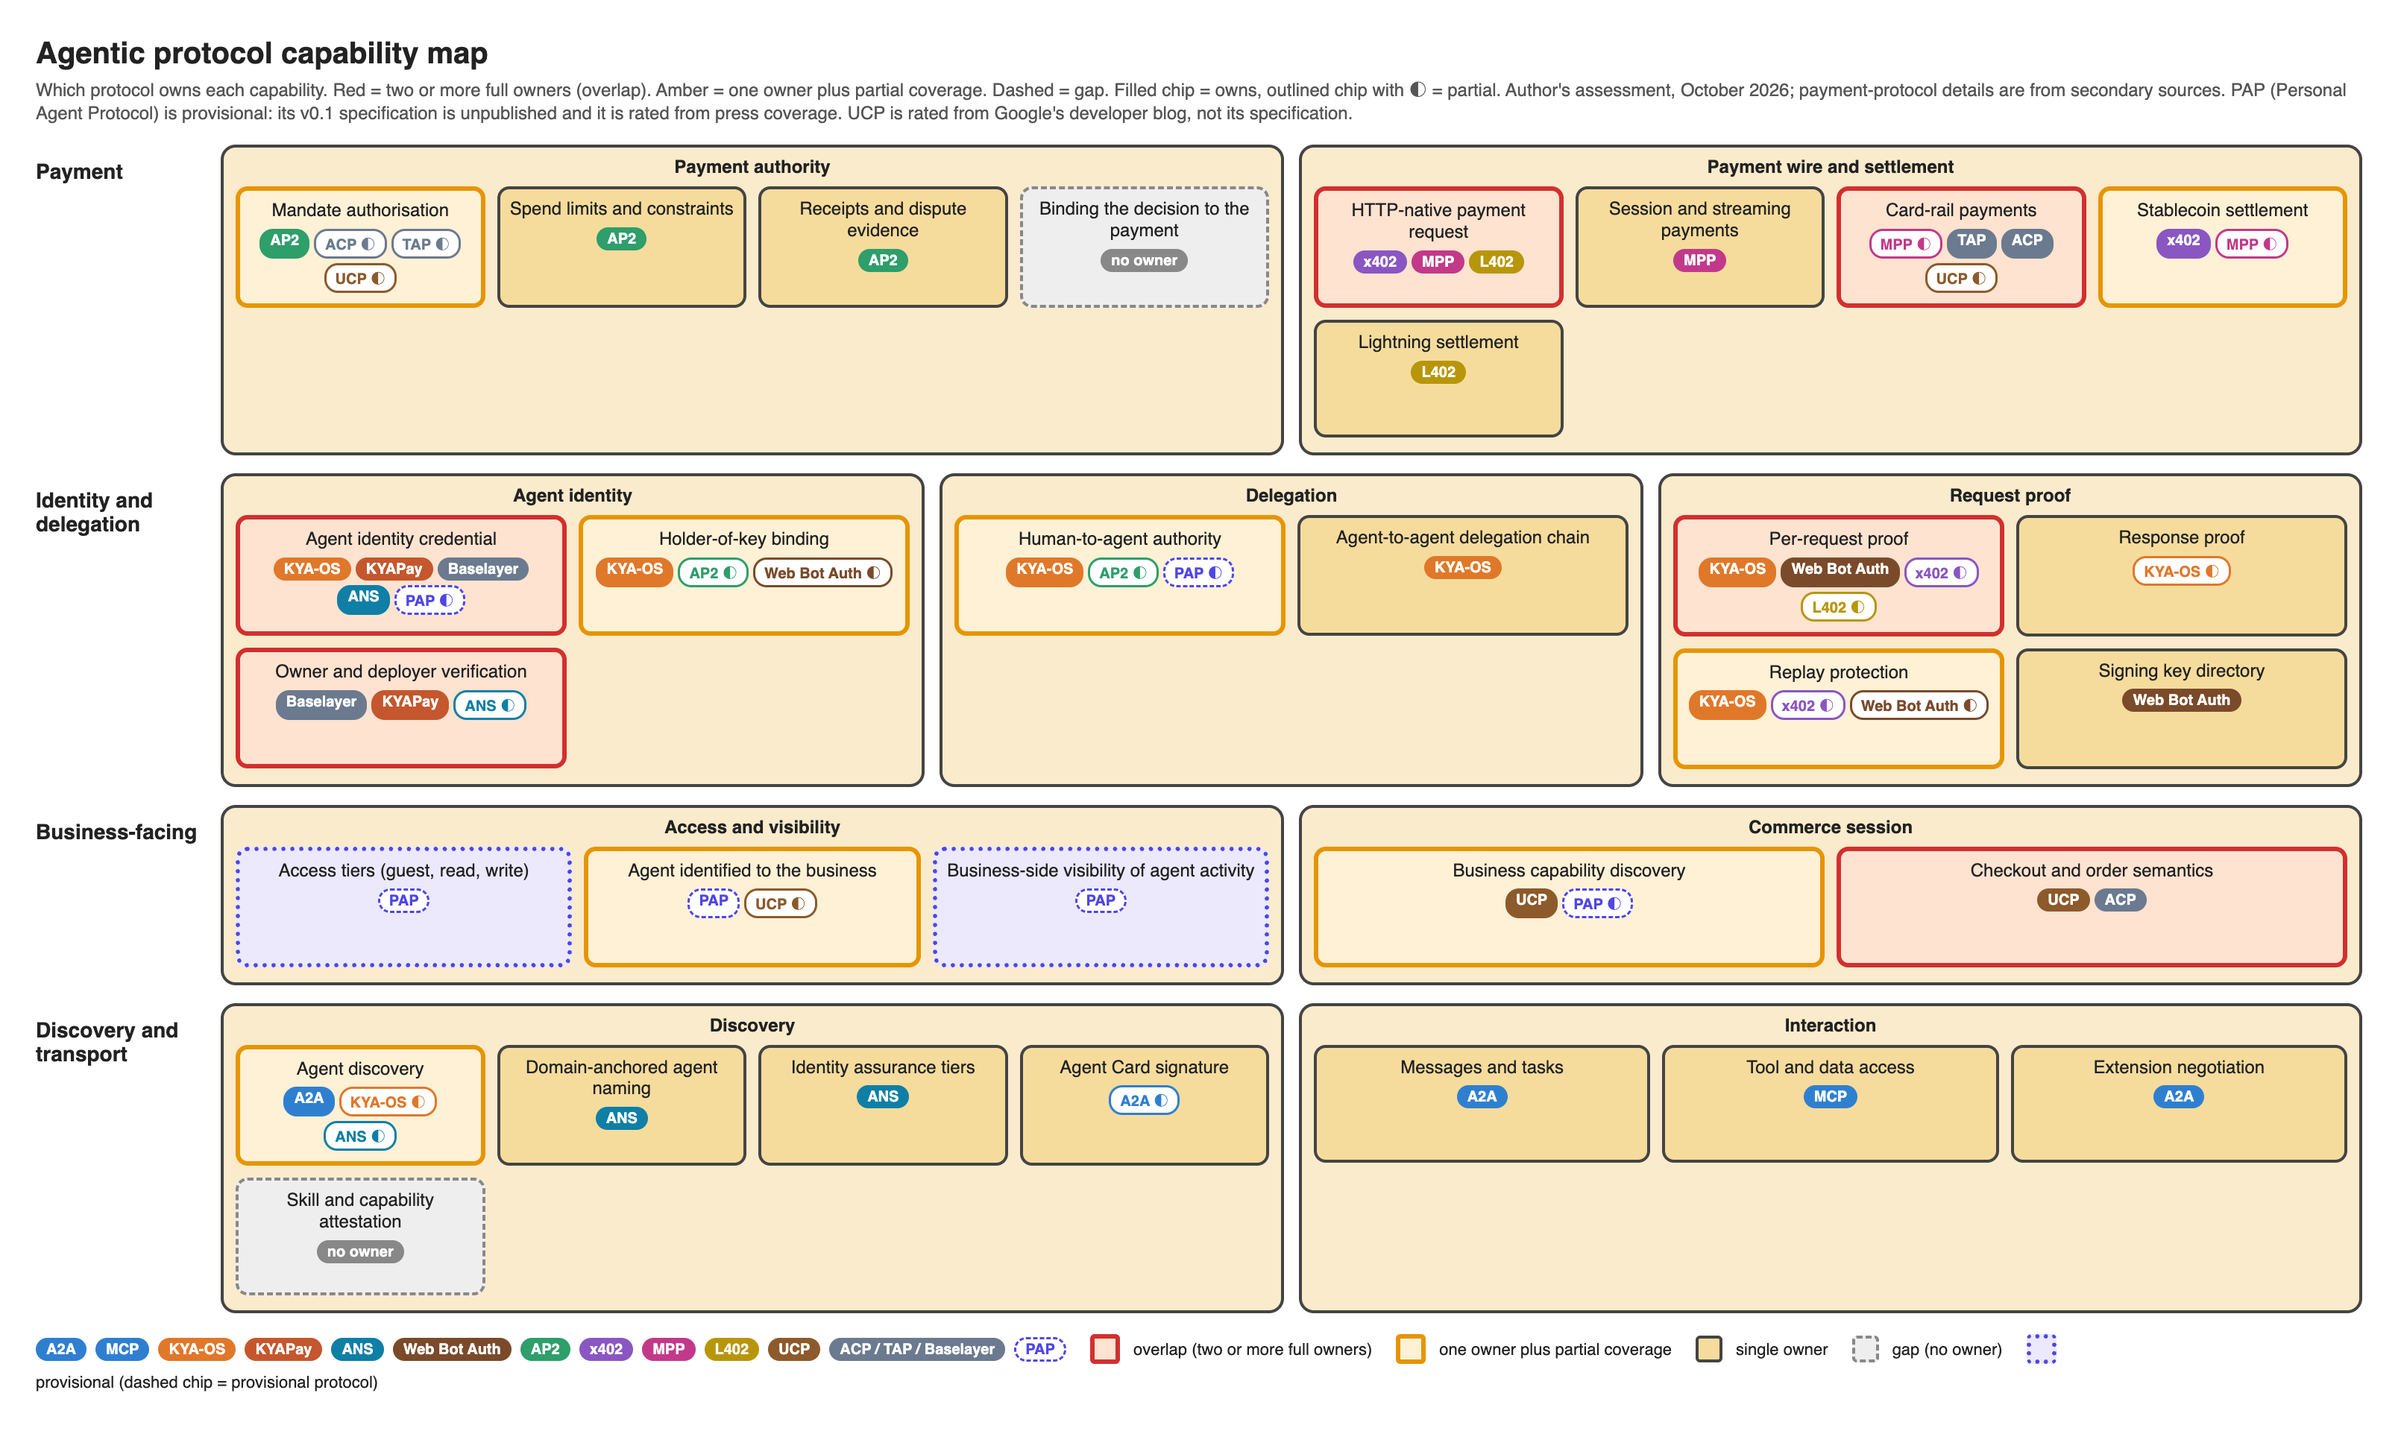
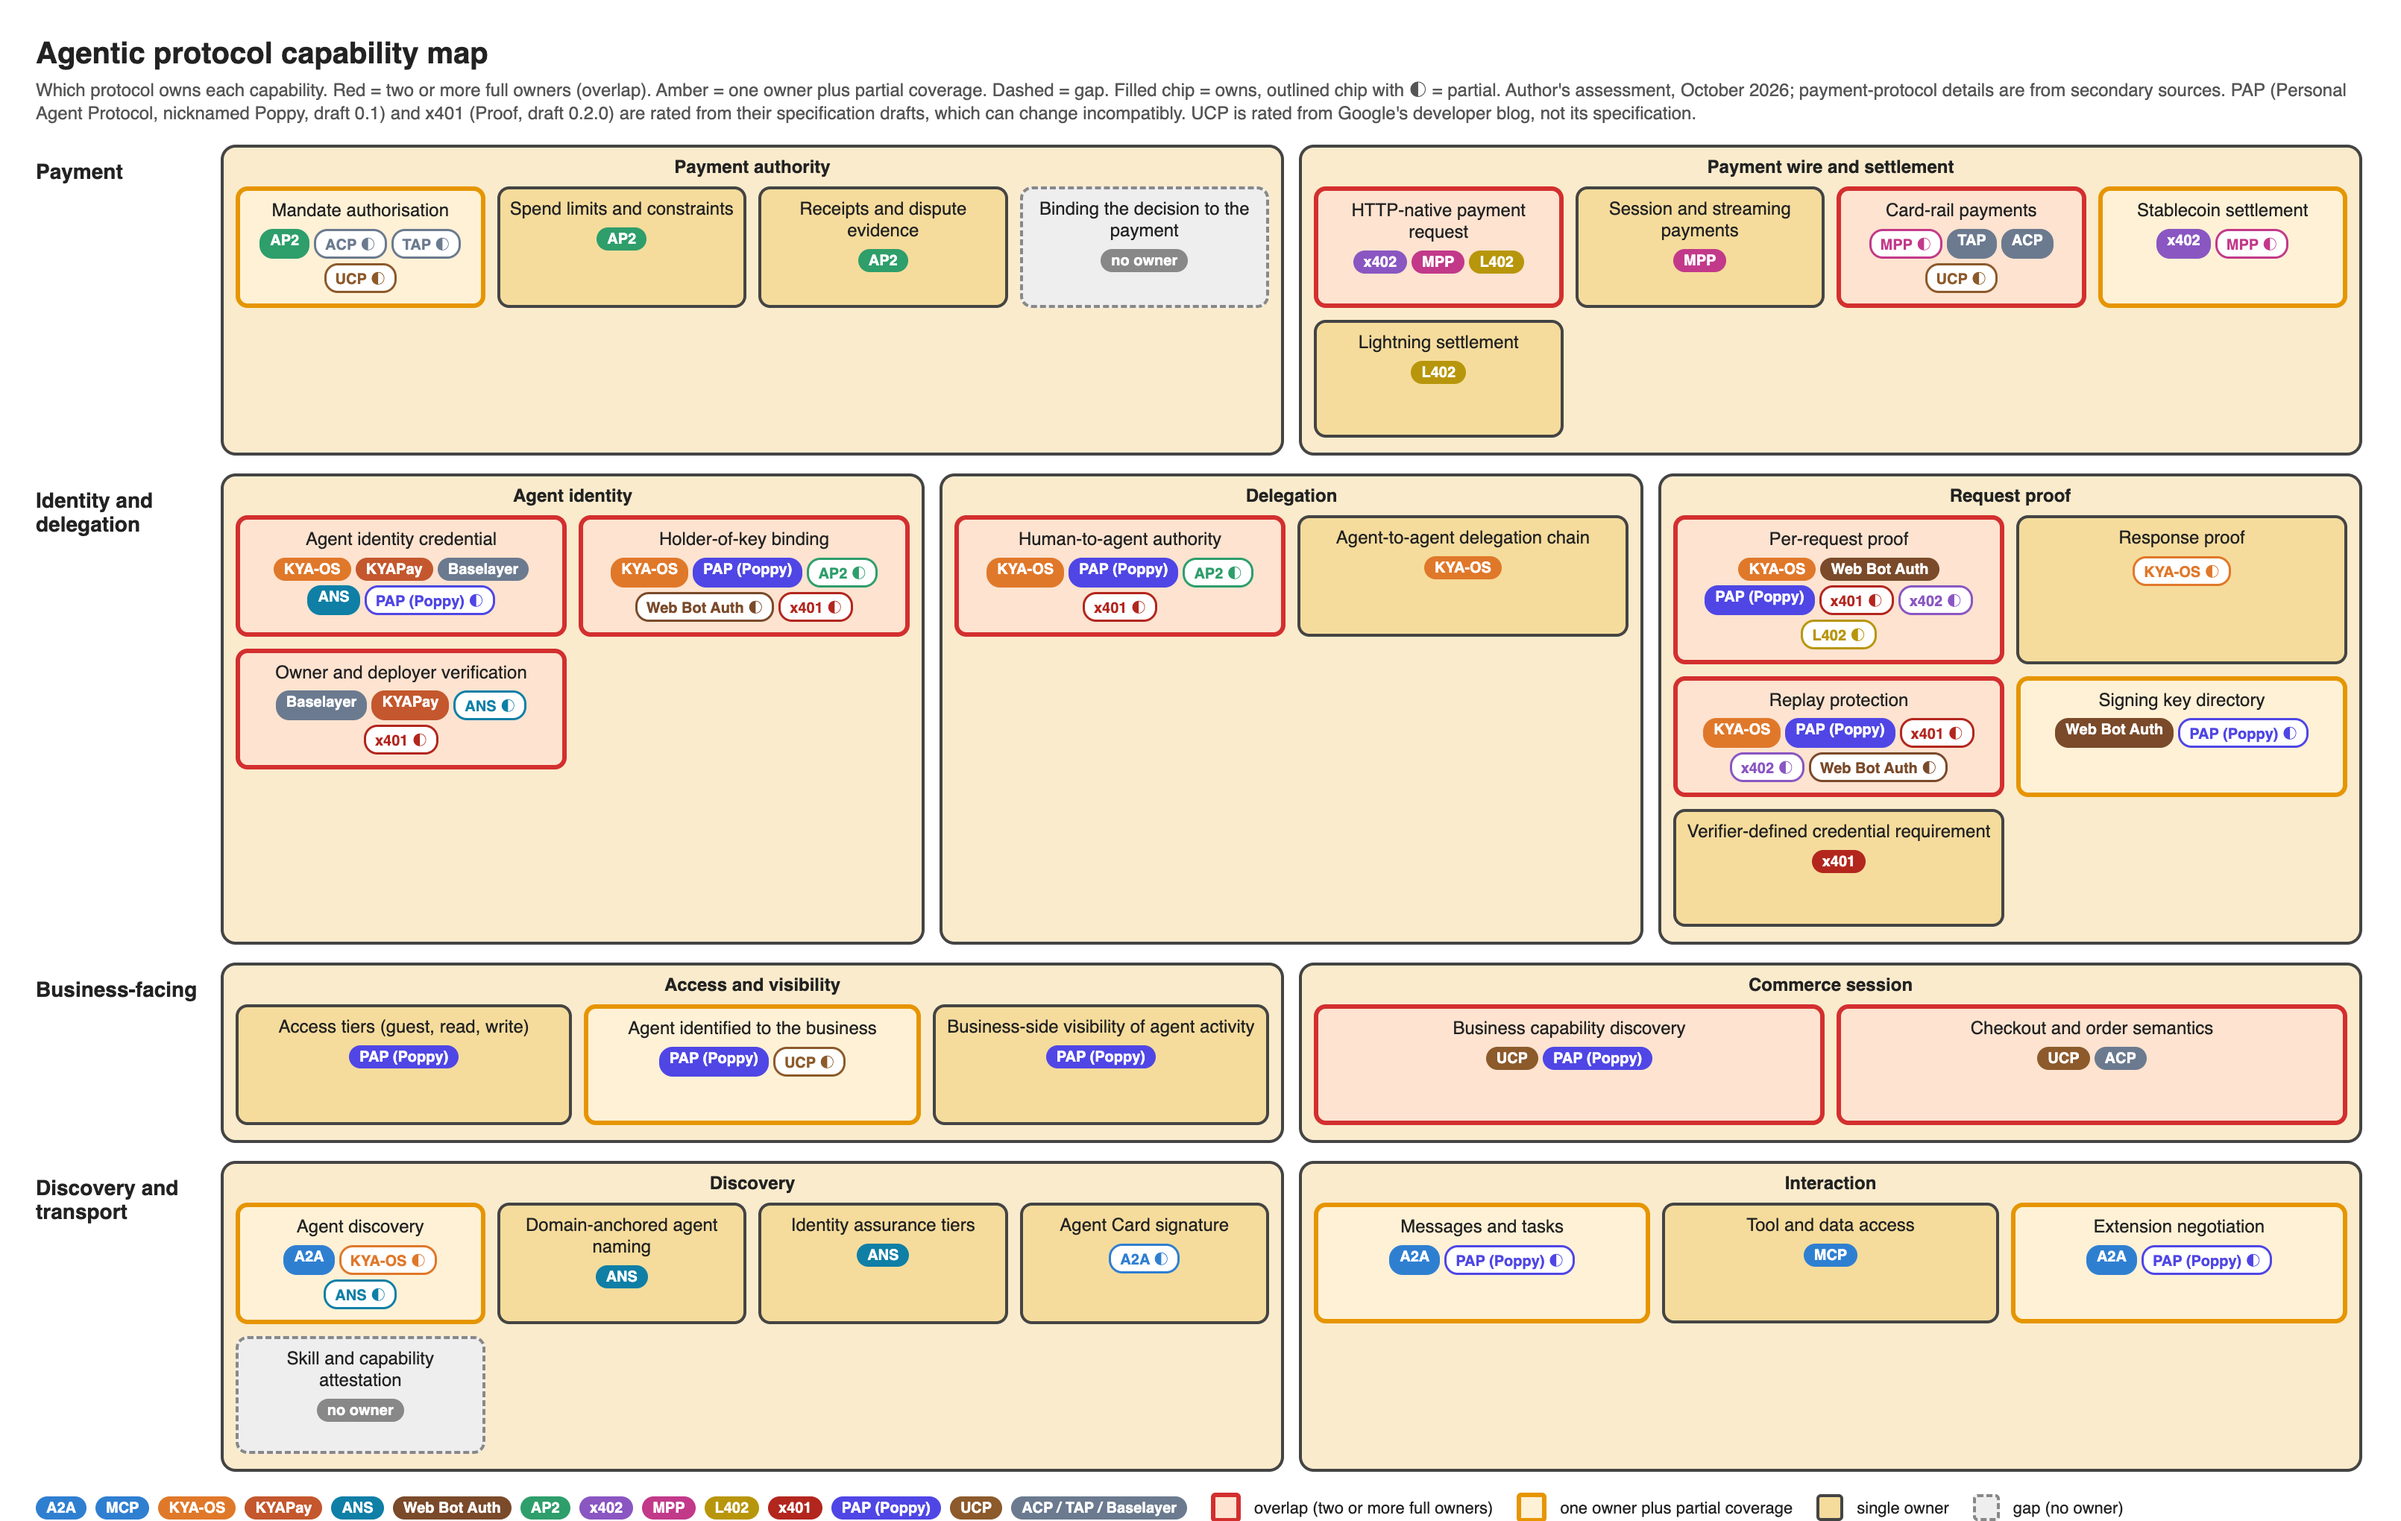
docs: add x401, rate PAP from its specification and regenerate the map
PAP (Poppy) draft 0.1 and x401 draft 0.2.0 are rated from their
specification text, so PAP is no longer provisional. Adds the
verifier-defined credential requirement capability and re-renders both
images (38 capabilities).

diff --git a/docs/research/tools/capability-map/generate.py b/docs/research/tools/capability-map/generate.py
@@ -24,11 +24,13 @@ import html
 # protocol -> colour
 COL={'A2A':'#2f7fd1','KYA-OS':'#e0782a','AP2':'#2e9e6b','x402':'#8a56c2','MPP':'#c2398a','L402':'#b8960b','cheqd':'#1b8a8a',
      'ACP':'#6b7a8f','TAP':'#6b7a8f','KYAPay':'#c4572d','Baselayer':'#6b7a8f','MCP':'#2f7fd1',
-     'UCP':'#8c5a2b','PAP':'#4f46e5','ANS':'#0f7fa6','WebBotAuth':'#7a4a2a'}
-LABEL={'WebBotAuth':'Web Bot Auth'}
-# Protocols whose ratings are provisional (specification unpublished or rated from secondary sources).
+     'UCP':'#8c5a2b','PAP':'#4f46e5','ANS':'#0f7fa6','WebBotAuth':'#7a4a2a','x401':'#b3261e'}
+LABEL={'WebBotAuth':'Web Bot Auth','PAP':'PAP (Poppy)'}
+# Protocols whose ratings are provisional (rated from announcements, not the specification text).
+# None at present. PAP (Poppy) is rated from draft 0.1 (docs/spec, 15 Oct 2026); x401 from draft 0.2.0
+# (github.com/proof/x401, key sections read). Both are drafts and can change incompatibly.
 # Their chips render dashed, and a box owned only by provisional protocols gets a dotted border.
-PROVISIONAL={'PAP'}
+PROVISIONAL=set()
 # (name, [(proto, level)], note)  level: F full, P partial
 def cap(name, owners, gap=False): return dict(name=name, owners=owners, gap=gap)
 ROWS=[
@@ -48,16 +50,17 @@ ROWS=[
  ("Identity and delegation", [
    ("Agent identity", [
      cap("Agent identity credential",[('KYA-OS','F'),('KYAPay','F'),('Baselayer','F'),('ANS','F'),('PAP','P')]),
-     cap("Holder-of-key binding",[('KYA-OS','F'),('AP2','P'),('WebBotAuth','P')]),
-     cap("Owner and deployer verification",[('Baselayer','F'),('KYAPay','F'),('ANS','P')])]),
+     cap("Holder-of-key binding",[('KYA-OS','F'),('PAP','F'),('AP2','P'),('WebBotAuth','P'),('x401','P')]),
+     cap("Owner and deployer verification",[('Baselayer','F'),('KYAPay','F'),('ANS','P'),('x401','P')])]),
    ("Delegation", [
-     cap("Human-to-agent authority",[('KYA-OS','F'),('AP2','P'),('PAP','P')]),
+     cap("Human-to-agent authority",[('KYA-OS','F'),('PAP','F'),('AP2','P'),('x401','P')]),
      cap("Agent-to-agent delegation chain",[('KYA-OS','F')])]),
    ("Request proof", [
-     cap("Per-request proof",[('KYA-OS','F'),('WebBotAuth','F'),('x402','P'),('L402','P')]),
+     cap("Per-request proof",[('KYA-OS','F'),('WebBotAuth','F'),('PAP','F'),('x401','P'),('x402','P'),('L402','P')]),
      cap("Response proof",[('KYA-OS','P')]),
-     cap("Replay protection",[('KYA-OS','F'),('x402','P'),('WebBotAuth','P')]),
-     cap("Signing key directory",[('WebBotAuth','F')])]),
+     cap("Replay protection",[('KYA-OS','F'),('PAP','F'),('x401','P'),('x402','P'),('WebBotAuth','P')]),
+     cap("Signing key directory",[('WebBotAuth','F'),('PAP','P')]),
+     cap("Verifier-defined credential requirement",[('x401','F')])]),
  ]),
  ("Business-facing", [
    ("Access and visibility", [
@@ -65,7 +68,7 @@ ROWS=[
      cap("Agent identified to the business",[('PAP','F'),('UCP','P')]),
      cap("Business-side visibility of agent activity",[('PAP','F')])]),
    ("Commerce session", [
-     cap("Business capability discovery",[('UCP','F'),('PAP','P')]),
+     cap("Business capability discovery",[('UCP','F'),('PAP','F')]),
      cap("Checkout and order semantics",[('UCP','F'),('ACP','F')])]),
  ]),
  ("Discovery and transport", [
@@ -76,9 +79,9 @@ ROWS=[
      cap("Agent Card signature",[('A2A','P')]),
      cap("Skill and capability attestation",[],True)]),
    ("Interaction", [
-     cap("Messages and tasks",[('A2A','F')]),
+     cap("Messages and tasks",[('A2A','F'),('PAP','P')]),
      cap("Tool and data access",[('MCP','F')]),
-     cap("Extension negotiation",[('A2A','F')])]),
+     cap("Extension negotiation",[('A2A','F'),('PAP','P')])]),
  ]),
  ("Trust anchor", [
    ("Resolution and linkage", [
@@ -86,7 +89,7 @@ ROWS=[
      cap("Reciprocal did:web and did:cheqd linkage",[('cheqd','F')]),
      cap("Versioned policy artefacts",[('cheqd','F')])]),
    ("Status", [
-     cap("Credential status and revocation",[('cheqd','F'),('KYA-OS','P'),('ANS','P')]),
+     cap("Credential status and revocation",[('cheqd','F'),('KYA-OS','P'),('ANS','P'),('PAP','P'),('x401','P')]),
      cap("Trust registry standing",[('cheqd','F')]),
      cap("Append-only transparency log",[('ANS','F')])]),
  ]),
@@ -136,7 +139,8 @@ rows=''
 for rname, groups in ROWS:
     g=''.join(f'<div class="grp"><div class="gt">{html.escape(gn)}</div><div class="caps">{"".join(box(c) for c in cs)}</div></div>' for gn,cs in groups)
     rows+=f'<div class="row"><div class="rl">{html.escape(rname)}</div><div class="groups">{g}</div></div>'
-legend=''.join(f'<span class="chip" style="--c:{COL[p]}">{LABEL.get(p,p)}</span>' for p in ['A2A','MCP','KYA-OS','KYAPay','ANS','WebBotAuth','AP2','x402','MPP','L402','UCP','cheqd'] if p in COL)+'<span class="chip" style="--c:#6b7a8f">ACP / TAP / Baselayer</span>'+'<span class="chip prov" style="--c:#4f46e5">PAP</span>'
+legend=''.join(f'<span class="chip" style="--c:{COL[p]}">{LABEL.get(p,p)}</span>' for p in ['A2A','MCP','KYA-OS','KYAPay','ANS','WebBotAuth','AP2','x402','MPP','L402','x401','PAP','UCP','cheqd'] if p in COL)+'<span class="chip" style="--c:#6b7a8f">ACP / TAP / Baselayer</span>'+''
+PROV_KEY='<span class="k" style="background:#ebe9fb;border:3px dotted #4f46e5"></span>provisional (dashed chip = provisional protocol)' if PROVISIONAL else ''
 page=f'''<!doctype html><meta charset=utf-8><style>
 body{{margin:0;padding:24px;background:#fff;font-family:Helvetica,Arial,'DejaVu Sans',sans-serif;color:#222;width:1560px}}
 h1{{font-size:20px;margin:0 0 4px}} .sub{{font-size:12px;color:#555;margin-bottom:14px}}
@@ -162,14 +166,14 @@ h1{{font-size:20px;margin:0 0 4px}} .sub{{font-size:12px;color:#555;margin-botto
 .k{{display:inline-block;width:14px;height:14px;border-radius:3px;margin:0 3px 0 10px;vertical-align:middle}}
 </style>
 <h1>{html.escape(TITLE)}</h1>
-<div class="sub">Which protocol owns each capability. Red = two or more full owners (overlap). Amber = one owner plus partial coverage. Dashed = gap. Filled chip = owns, outlined chip with <span class=h>◐</span> = partial. Author's assessment, October 2026; payment-protocol details are from secondary sources. PAP (Personal Agent Protocol) is provisional: its v0.1 specification is unpublished and it is rated from press coverage. UCP is rated from Google's developer blog, not its specification.</div>
+<div class="sub">Which protocol owns each capability. Red = two or more full owners (overlap). Amber = one owner plus partial coverage. Dashed = gap. Filled chip = owns, outlined chip with <span class=h>◐</span> = partial. Author's assessment, October 2026; payment-protocol details are from secondary sources. PAP (Personal Agent Protocol, nicknamed Poppy, draft 0.1) and x401 (Proof, draft 0.2.0) are rated from their specification drafts, which can change incompatibly. UCP is rated from Google's developer blog, not its specification.</div>
 {rows}
 <div class="leg">{legend}
 <span class="k" style="background:#fde3d0;border:3px solid #d32f2f"></span>overlap (two or more full owners)
 <span class="k" style="background:#fff1d6;border:3px solid #e69500"></span>one owner plus partial coverage
 <span class="k" style="background:#f5dc9c;border:2px solid #444"></span>single owner
 <span class="k" style="background:#eee;border:2px dashed #888"></span>gap (no owner)
-<span class="k" style="background:#ebe9fb;border:3px dotted #4f46e5"></span>provisional (dashed chip = provisional protocol)</div>'''
+{PROV_KEY}</div>'''
 out=sys.argv[1] if len(sys.argv)>1 else 'capability-map.html'
 open(out,'w').write(page)
 print({k:len(v) for k,v in stats.items()})

diff --git a/docs/research/tools/capability-map/README.md b/docs/research/tools/capability-map/README.md
@@ -15,6 +15,10 @@ The same data produces two versions:
 
 `--no-cheqd` removes the cheqd chips, drops the capabilities only cheqd covered, and omits the Trust anchor row. `--without PROTOCOL` and `--skip-row ROW` do the same for other protocols and rows.
 
+## Protocols and traction
+
+[`PROTOCOLS.md`](./PROTOCOLS.md) lists every protocol on the map with its steward, documentation, adoption signals and GitHub and package metrics. [`traction/`](./traction/) holds the data and scripts behind its charts: `python3 traction/fetch.py` refreshes `data.json` (needs `gh`), and `python3 traction/render.py` redraws the SVGs.
+
 ## Run
 
 ```bash
@@ -30,15 +34,15 @@ Any headless Chromium works. For example, with Chrome on macOS:
 
 ```bash
 "/Applications/Google Chrome.app/Contents/MacOS/Google Chrome" --headless \
-  --hide-scrollbars --force-device-scale-factor=2 --window-size=1610,1090 \
+  --hide-scrollbars --force-device-scale-factor=2 --window-size=1610,1170 \
   --screenshot=protocol-capability-map.png file://$PWD/capability-map.html
 ```
 
-The window size fits the current content. Use a height of 960 instead of 1090 for the `--no-cheqd` version, and change it if you add rows. The half-circle glyph is set in DejaVu Sans; if your machine lacks it, the glyph falls back to a system font and may look smaller.
+The window size fits the current content. Use a height of 1020 instead of 1170 for the `--no-cheqd` version, and change it if you add rows. The half-circle glyph is set in DejaVu Sans; if your machine lacks it, the glyph falls back to a system font and may look smaller.
 
 ## Provisional protocols
 
-Protocols in the `PROVISIONAL` set at the top of `generate.py` (currently PAP) render with dashed chips, and a box owned only by provisional protocols gets a dotted purple border. Use it for protocols whose specification is unpublished or rated from secondary sources, and remove the protocol from the set once its specification has been checked.
+Protocols in the `PROVISIONAL` set at the top of `generate.py` (currently none) render with dashed chips, and a box owned only by provisional protocols gets a dotted purple border. Use it for protocols whose specification is unpublished or rated from secondary sources, and remove the protocol from the set once its specification has been checked.
 
 ## Limits
 
